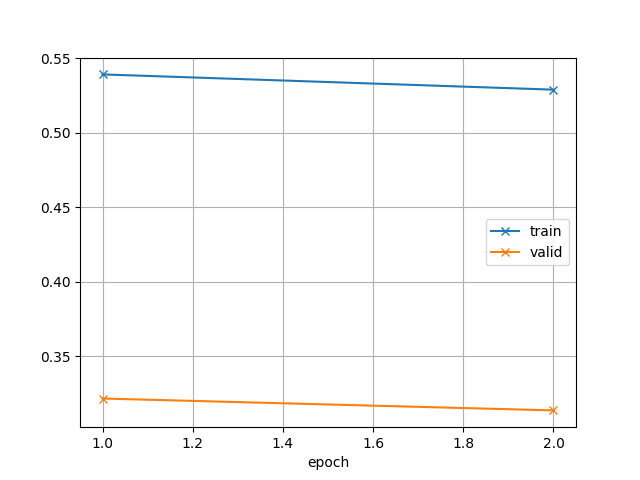
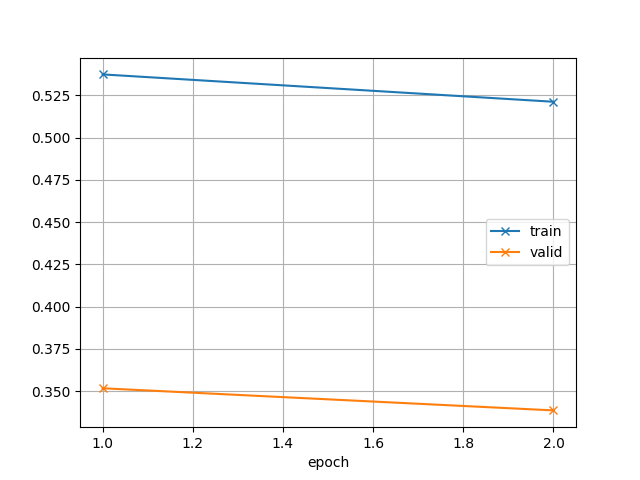
[update] modelやoptimizerの位置がおかしかったので変更した

diff --git a/exp/exp001/trainner.py b/exp/exp001/trainner.py
@@ -18,11 +18,11 @@ from early_stopping import EarlyStopping
 def train_cv(config):
     # config
     debug = config['globals']['debug']
+    device = torch.device("cuda" if torch.cuda.is_available() else "cpu")
     n_fold = config['split']['n_fold']
     n_epoch = config['globals']['num_epochs']
     path_trn_tp = config['path']['path_train_tp']
     n_classes = config['model']['params']['n_classes']
-    _model = C.get_model(config)
     dir_save_exp, dir_save_ignore_exp, _ = U.get_save_dir_exp(config)
 
     # load data
@@ -39,6 +39,13 @@ def train_cv(config):
         logger.info(f'\tFold {i_fold + 1}/{n_fold}')
         logger.info("-" * 18)
 
+        # C
+        model = C.get_model(config).to(device)
+        criterion = C.get_criterion(config)
+        optimizer = C.get_optimizer(model, config)
+        scheduler = C.get_scheduler(optimizer, config)
+
+        # init
         epochs = []
         losses_trn = []
         losses_val = []
@@ -47,14 +54,16 @@ def train_cv(config):
         best_loss_val = 0
         best_output_sig = 0
         save_path = f'{dir_save_ignore_exp}/'\
-                    f'{_model.__class__.__name__}_fold{i_fold}.pth'
+                    f'{model.__class__.__name__}_fold{i_fold}.pth'
         early_stopping = EarlyStopping(patience=12,
                                        verbose=True,
                                        path=save_path,
                                        trace_func=logger.info)
         for epoch in range(1, n_epoch+1):
             # 学習を行う
-            result_dict = train_fold(i_fold, trn_tp, config)
+            result_dict = train_fold(i_fold, trn_tp, model,
+                                     criterion, optimizer,
+                                     scheduler, config)
             val_idxs = result_dict['val_idxs']
             output_sig = result_dict['output_sig']
             loss_trn = result_dict['loss_trn']
@@ -116,7 +125,9 @@ def train_cv(config):
     torch.cuda.empty_cache()
 
 
-def train_fold(i_fold, trn_tp, config):
+def train_fold(i_fold, trn_tp, model,
+               criterion, optimizer,
+               scheduler, config):
     mixup = config['globals']['mixup']
     device = torch.device("cuda" if torch.cuda.is_available() else "cpu")
     trn_idxs, val_idxs = C.get_index_fold(trn_tp, i_fold, config)
@@ -124,12 +135,6 @@ def train_fold(i_fold, trn_tp, config):
     trn_tp_val = trn_tp.iloc[val_idxs].reset_index(drop=True)
     trn_loader = C.get_trn_val_loader(trn_tp_trn, 'train', config)
     val_loader = C.get_trn_val_loader(trn_tp_val, 'valid', config)
-
-    # C
-    model = C.get_model(config).to(device)
-    criterion = C.get_criterion(config)
-    optimizer = C.get_optimizer(model, config)
-    scheduler = C.get_scheduler(optimizer, config)
 
     # train
     model.train()

diff --git a/exp/exp001/model_list.py b/exp/exp001/model_list.py
@@ -29,3 +29,26 @@ class ResNet18(nn.Module):
             "output_softmax": multiclass_proba,
             "output_sigmoid": multilabel_proba
         }
+
+
+class ResNet50(nn.Module):
+    def __init__(self, params):
+        super().__init__()
+        self.__class__.__name__ = 'ResNet50'
+        num_classes = params['n_classes']
+        pretrained = params['pretrained']
+
+        self.resnet = models.resnet50(pretrained=pretrained)
+        in_features = self.resnet.fc.in_features
+        self.resnet.avgpool = nn.AdaptiveAvgPool2d(output_size=(1, 1))
+        self.resnet.fc = nn.Linear(in_features, num_classes)
+
+    def forward(self, x):
+        x = self.resnet(x)
+        multiclass_proba = F.softmax(x, dim=1)
+        multilabel_proba = torch.sigmoid(x)
+        return {
+            "output": x,
+            "output_softmax": multiclass_proba,
+            "output_sigmoid": multilabel_proba
+        }

diff --git a/README.md b/README.md
@@ -176,4 +176,6 @@ hoge
 			- かわらず
 		- [x] get_index_foldでrecording_ids_shf が使われてなかったミスを治した
 			- 結局収束せず
-		- [ ] trainner内のdelをコメントアウトしてみた
+		- [x] trainner内のdelをコメントアウトしてみた
+		- [x] periodを10秒にしてみた
+		- [x] resnet50で試してみた
